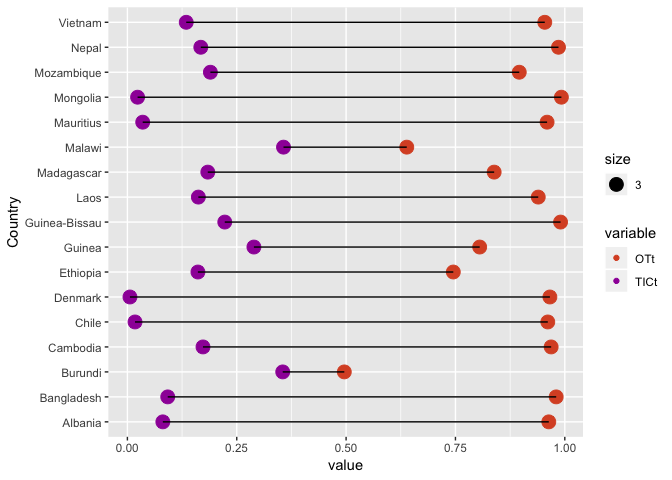
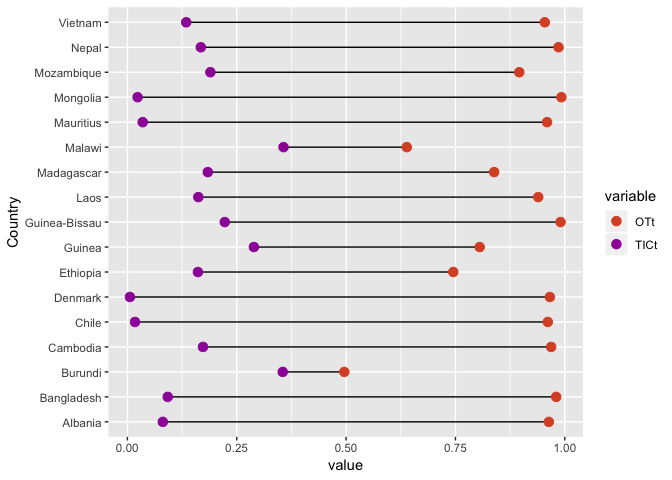
edit text to match pull request

diff --git a/TT.9.25.18/cleveland.dotplot.md b/TT.9.25.18/cleveland.dotplot.md
@@ -411,29 +411,27 @@ in our final list. We can use “%in%” to select only the countries that
 appear in our list.
 
 We’re also going to go ahead & drop our rank columns because we won’t be
-needing them for the final plot. Finally, we’re going to melt the data
-frame to make it easier to plot.
+needing them for the final plot. Finally, we’re going to use gather() to
+make the data frame “longer” & easier to plot.
 
 ``` r
 plotdf <- full_join(table1_df, table3_df, by = "Country") %>%
   filter(Country %in% final_list$Country) %>%
   select(-contains("Rank")) %>%
-  melt()
-```
+  gather(OTt:TICt, key = "variable", value = "value")
 
-    ## Using Country as id variables
-
-``` r
 head(plotdf)
 ```
 
-    ##         Country variable  value
-    ## 1      Mongolia      OTt 0.9922
-    ## 2 Guinea-Bissau      OTt 0.9903
-    ## 3         Nepal      OTt 0.9856
-    ## 4    Bangladesh      OTt 0.9803
-    ## 5      Cambodia      OTt 0.9688
-    ## 6       Denmark      OTt 0.9659
+    ## # A tibble: 6 x 3
+    ##   Country       variable value
+    ##   <chr>         <chr>    <dbl>
+    ## 1 Mongolia      OTt      0.992
+    ## 2 Guinea-Bissau OTt      0.990
+    ## 3 Nepal         OTt      0.986
+    ## 4 Bangladesh    OTt      0.980
+    ## 5 Cambodia      OTt      0.969
+    ## 6 Denmark       OTt      0.966
 
 Let’s start plotting our figure\! The hallmark of a Cleveland dot plot
 is two values (points) connected by a line. We use geom\_point() to plot
@@ -442,19 +440,20 @@ geom\_line() to connect our two points together.
 
 ``` r
 ggplot(plotdf) +
-  geom_point(aes(x = value, y = Country, color = variable)) +
-  geom_line(aes(x = value, y = Country))
+  geom_line(aes(x = value, y = Country)) +
+  geom_point(aes(x = value, y = Country, color = variable))
 ```
 
 ![](cleveland.dotplot_files/figure-gfm/unnamed-chunk-12-1.png)<!-- -->
 
 Looks good so far\! First, let’s change up the colors & make the points
-bigger
+bigger. We can do this by adding “size=” to our geom\_point() call. Make
+sure you place it outside of the aes() call.
 
 ``` r
 ggplot(plotdf) +
-  geom_point(aes(x = value, y = Country, color = variable, size = 3)) +
   geom_line(aes(x = value, y = Country)) +
+  geom_point(aes(x = value, y = Country, color = variable), size = 3) +
   scale_color_manual(values = c("#da532c", "#9f00a7"))
 ```
 
@@ -471,8 +470,8 @@ elements to “element\_blank()”. Lastly, I removed the background using
 
 ``` r
 ggplot(plotdf) +
-  geom_point(aes(x = value, y = Country, color = variable, size = 3)) +
   geom_line(aes(x = value, y = Country)) +
+  geom_point(aes(x = value, y = Country, color = variable), size = 3) +
   scale_color_manual(values = c("#da532c", "#9f00a7")) +
   theme(axis.title = element_blank(),
     axis.ticks = element_blank(),
@@ -494,8 +493,8 @@ the “OTt” labels.
 
 ``` r
 ggplot(plotdf) +
-  geom_point(aes(x = value, y = Country, color = variable, size = 3)) +
   geom_line(aes(x = value, y = Country)) +
+  geom_point(aes(x = value, y = Country, color = variable), size = 3) +
   geom_text(data = plotdf %>%
     filter(variable == "TICt"), aes(x = value, y = Country, label = value), hjust = 1.25) +
   geom_text(data = plotdf %>%
@@ -511,7 +510,7 @@ ggplot(plotdf) +
 
 I like the labels but we can’t see some of them\! We can widen the
 x-axis to fix this issue. I used xlim() to change the limits on the
-x-axis. I added 0.1 in each direction to make enough room for the
+x-axis. I added 0.15 in each direction to make enough room for the
 labels.
 
 I also bumped up the font size on the y-axis labels. I did this using
@@ -519,13 +518,13 @@ I also bumped up the font size on the y-axis labels. I did this using
 
 ``` r
 ggplot(plotdf) +
-  geom_point(aes(x = value, y = Country, color = variable, size = 3)) +
   geom_line(aes(x = value, y = Country)) +
+  geom_point(aes(x = value, y = Country, color = variable), size = 3) +
   geom_text(data = plotdf %>%
     filter(variable == "TICt"), aes(x = value, y = Country, label = value), hjust = 1.25) +
   geom_text(data = plotdf %>%
     filter(variable == "OTt"), aes(x = value, y = Country, label = value), hjust = -.25) +
-  xlim(-0.1,1.1) +
+  xlim(-0.15,1.15) +
   scale_color_manual(values = c("#da532c", "#9f00a7")) +
   theme(axis.title = element_blank(),
     axis.ticks = element_blank(),
@@ -539,21 +538,21 @@ ggplot(plotdf) +
 Last thing I want to fix is the legend. First I want to move the legend
 to the bottom of the plot. This can be done inside the theme() call
 using legend.position = “bottom”. I removed the legend title using
-“legend.title”. Then I removed the size legend using scale\_size(). I
-changed the labels for the legend inside the scale\_color\_manual()
-call. I changed the dot size inside the guides() call.
+“legend.title”. I changed the labels for the legend inside the
+scale\_color\_manual() call. I changed the dot size inside the guides()
+call.
 
 ``` r
 ggplot(plotdf) +
-  geom_point(aes(x = value, y = Country, color = variable, size = 3)) +
   geom_line(aes(x = value, y = Country)) +
+  geom_point(aes(x = value, y = Country, color = variable), size = 3) +
   geom_text(data = plotdf %>%
     filter(variable == "TICt"), aes(x = value, y = Country, label = value), hjust = 1.25) +
   geom_text(data = plotdf %>%
     filter(variable == "OTt"), aes(x = value, y = Country, label = value), hjust = -.25) +
   xlim(-0.1,1.1) +
-  scale_color_manual(values = c("#da532c", "#9f00a7"), labels = c("Overall Invasion Threat (OTt)", "Invasion Cost (TICt) as a Proportion of GDP")) +
-  scale_size(guide = "none") +
+  scale_color_manual(values = c("#da532c", "#9f00a7"),
+    labels = c("Overall Invasion Threat (OTt)", "Invasion Cost (TICt) as a Proportion of GDP")) +
   guides(colour = guide_legend(override.aes = list(size=3))) +
   theme(legend.position = "bottom",
     legend.title = element_blank(),
@@ -568,3 +567,6 @@ ggplot(plotdf) +
 
 Looks great\! If you have any questions or comments, feel feel to get in
 touch with me via [Twitter](https://twitter.com/sapo83).
+
+Thanks to [othomantegazza](https://github.com/othomantegazza) for the
+excellent feedback\!
